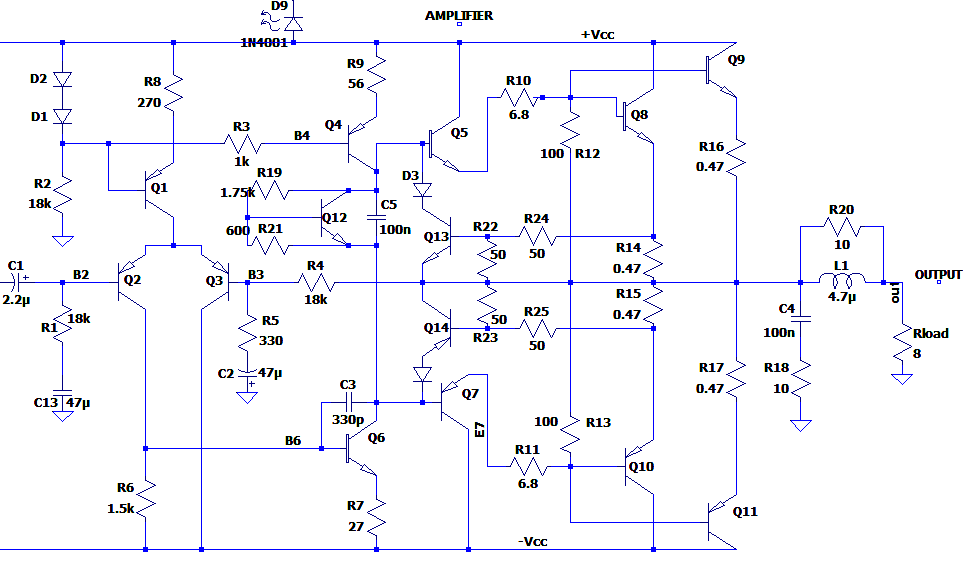
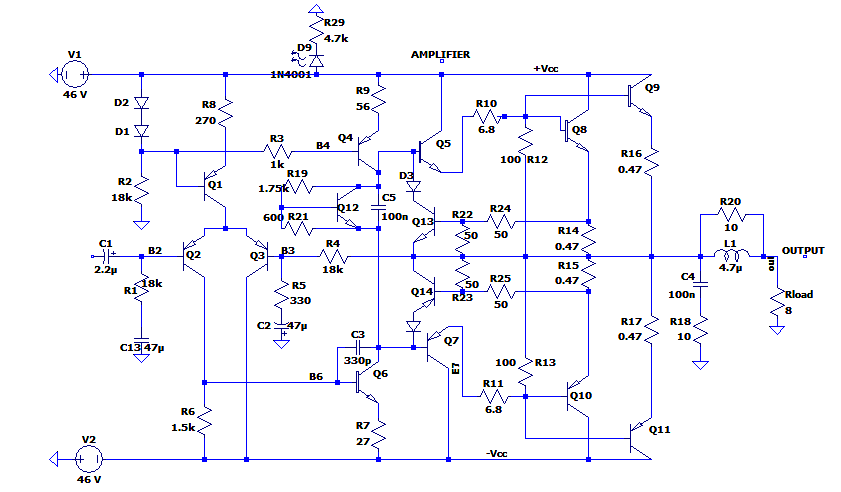
11th

diff --git a/amp.html b/amp.html
@@ -33,12 +33,8 @@
       <div id="subtitlu"><h2>THE AMPLIFIER</h2></div>
 
     <div id="container">
-        
-            <p id="definitie">
-
-        
-        
-                        </p>
+        <p id="p2">The main diagram of the amp is presented below:</p>
+        <img id="gif" src="images/schemaamp.png">
                      
     </div>
             

diff --git a/amp.css b/amp.css
@@ -97,12 +97,12 @@ li a:hover {
 }
 #container {
   background-color: #D9E5D6 ;
-  height: 40vh;
-  width: 60vw;
+  height: 60vh;
+  width: 80vw;
   box-shadow: 2px 2px 10px 3px rgb(139, 134, 134);
   text-shadow: 2px 1px 2px  rgb(201, 190, 190);
   margin-top: 6vh;
-  margin-left: 20vw;
+  margin-left: 10vw;
   margin-right: 55vw;
   
   border-color: #9dafc4;

diff --git a/index.css b/index.css
@@ -178,7 +178,7 @@ li a { font-size: 100%; }
 #copyright {margin-left: 38.6vw;}
 
 
-@media (min-width: 400px) {
+@media (min-width: 700px) {
     html { font-size: 60%; }
     li a { font-size: 50%; }
     li a { padding: 15px 20px;}
